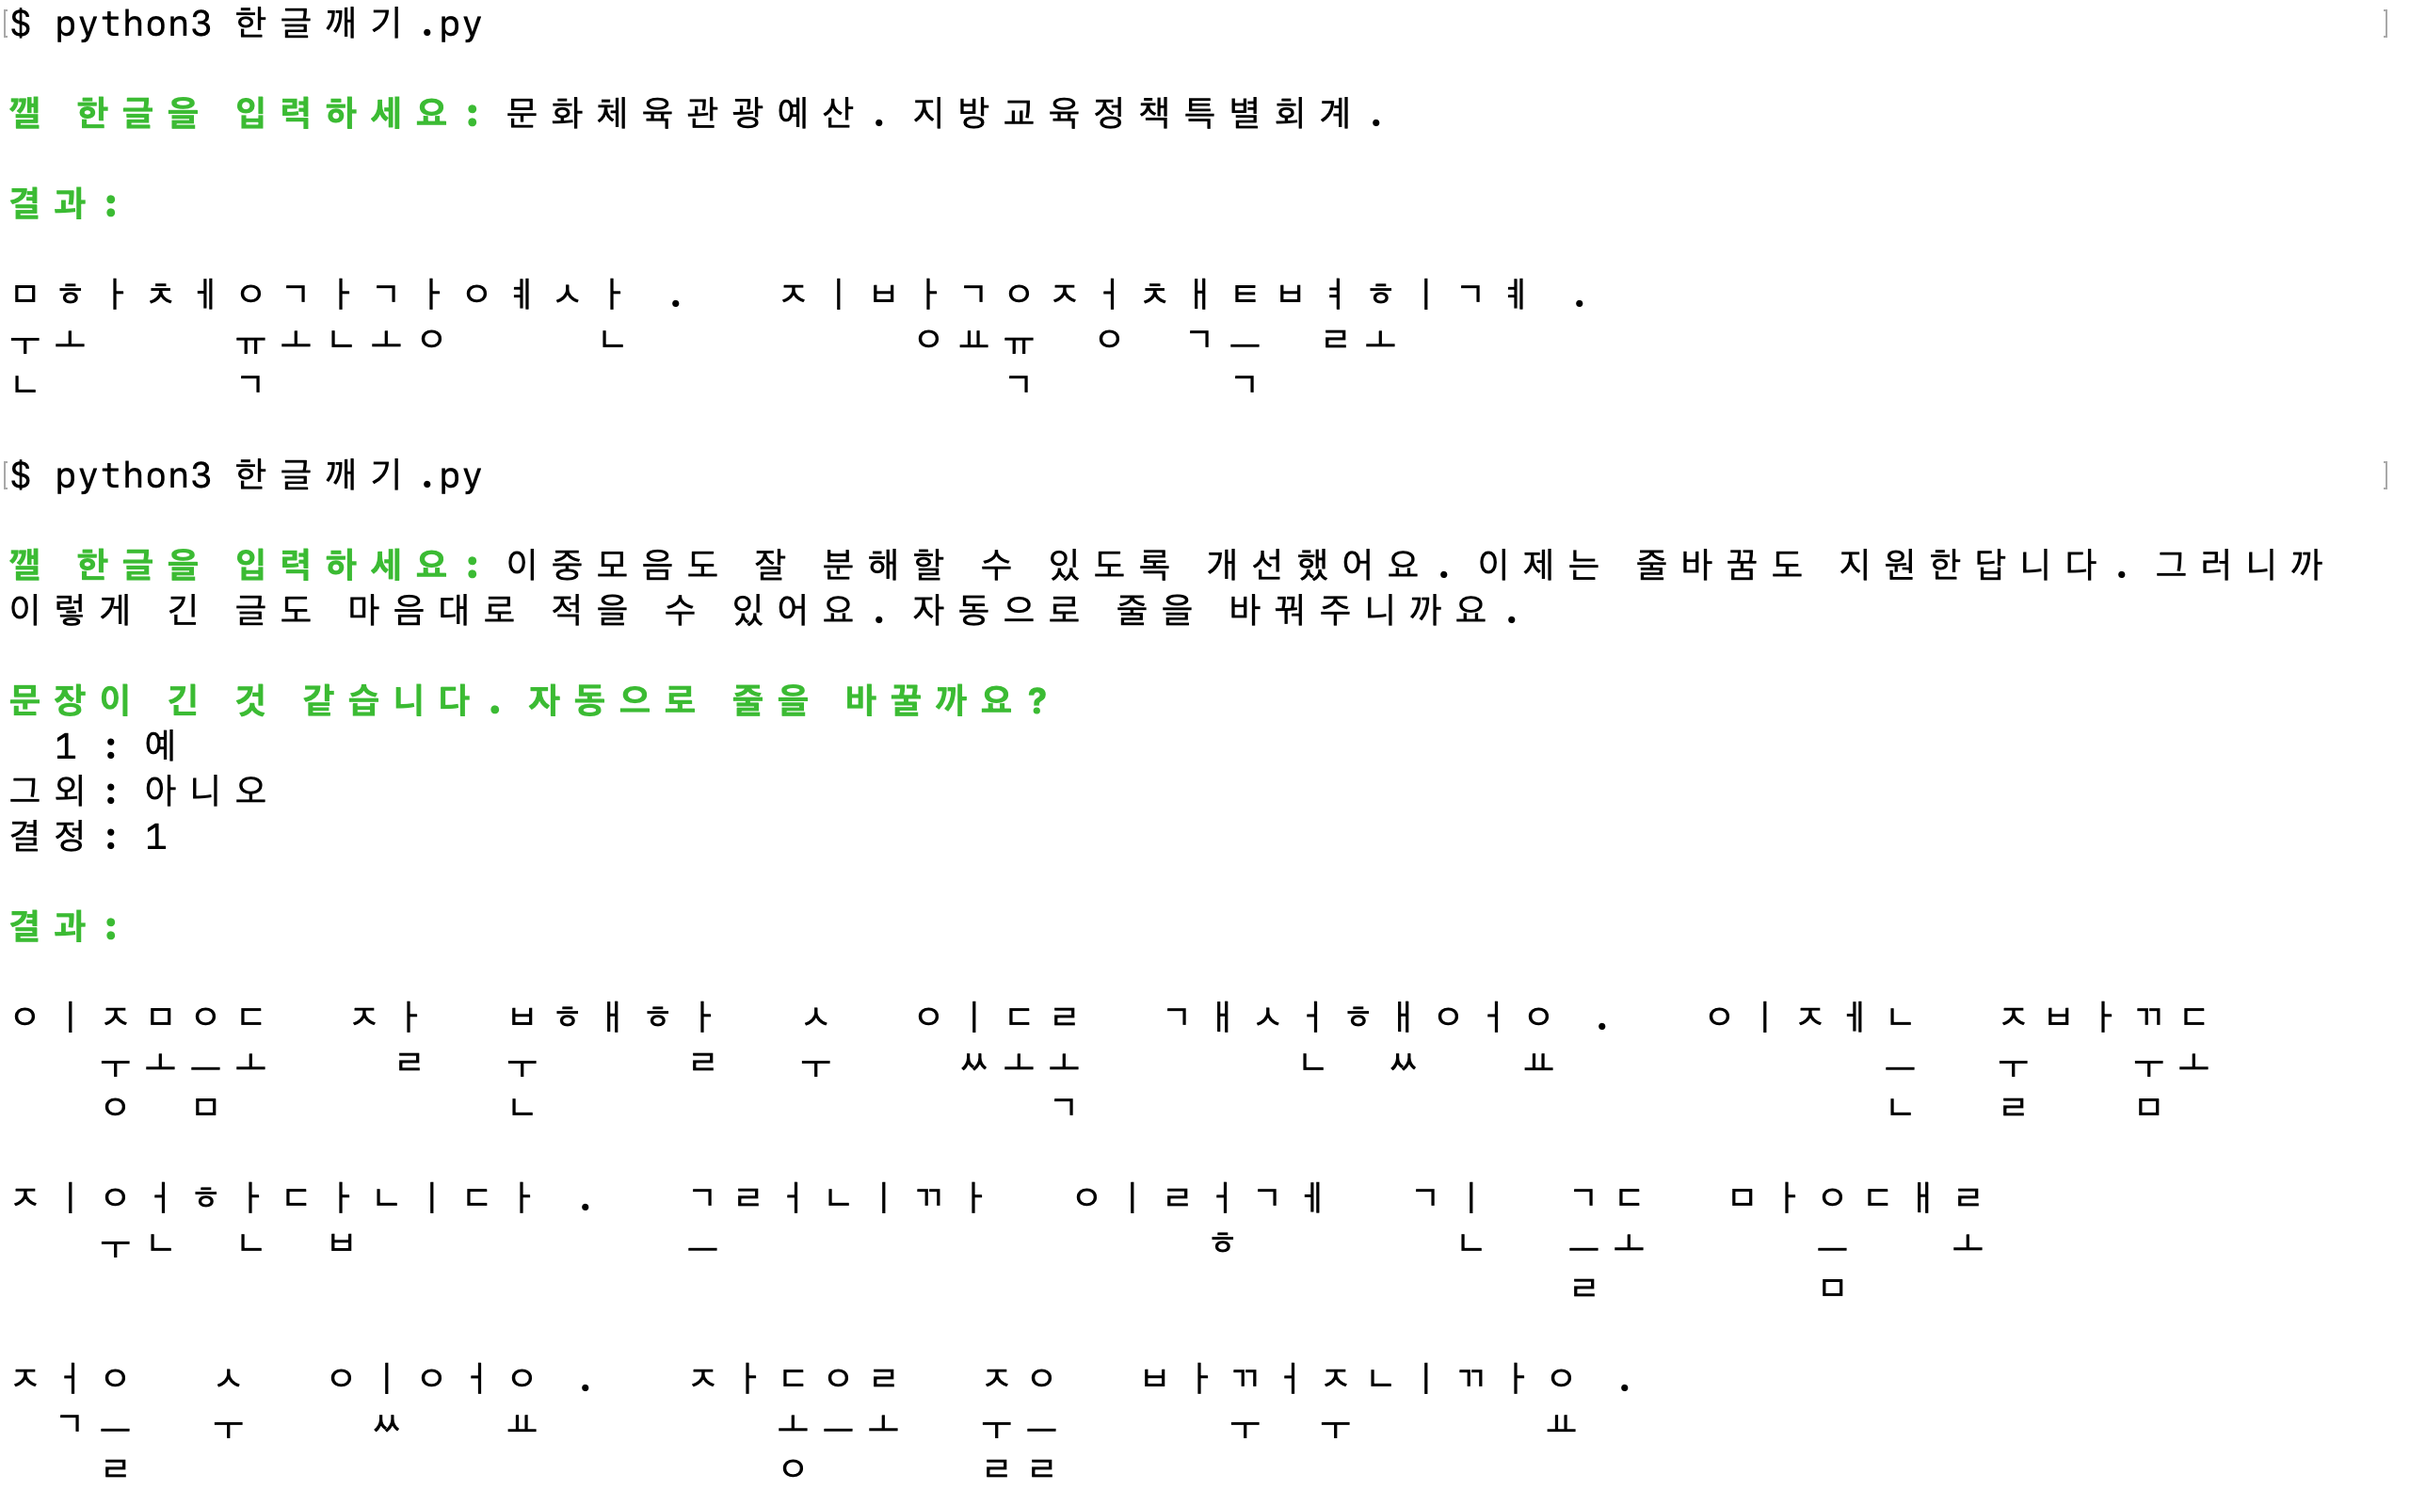
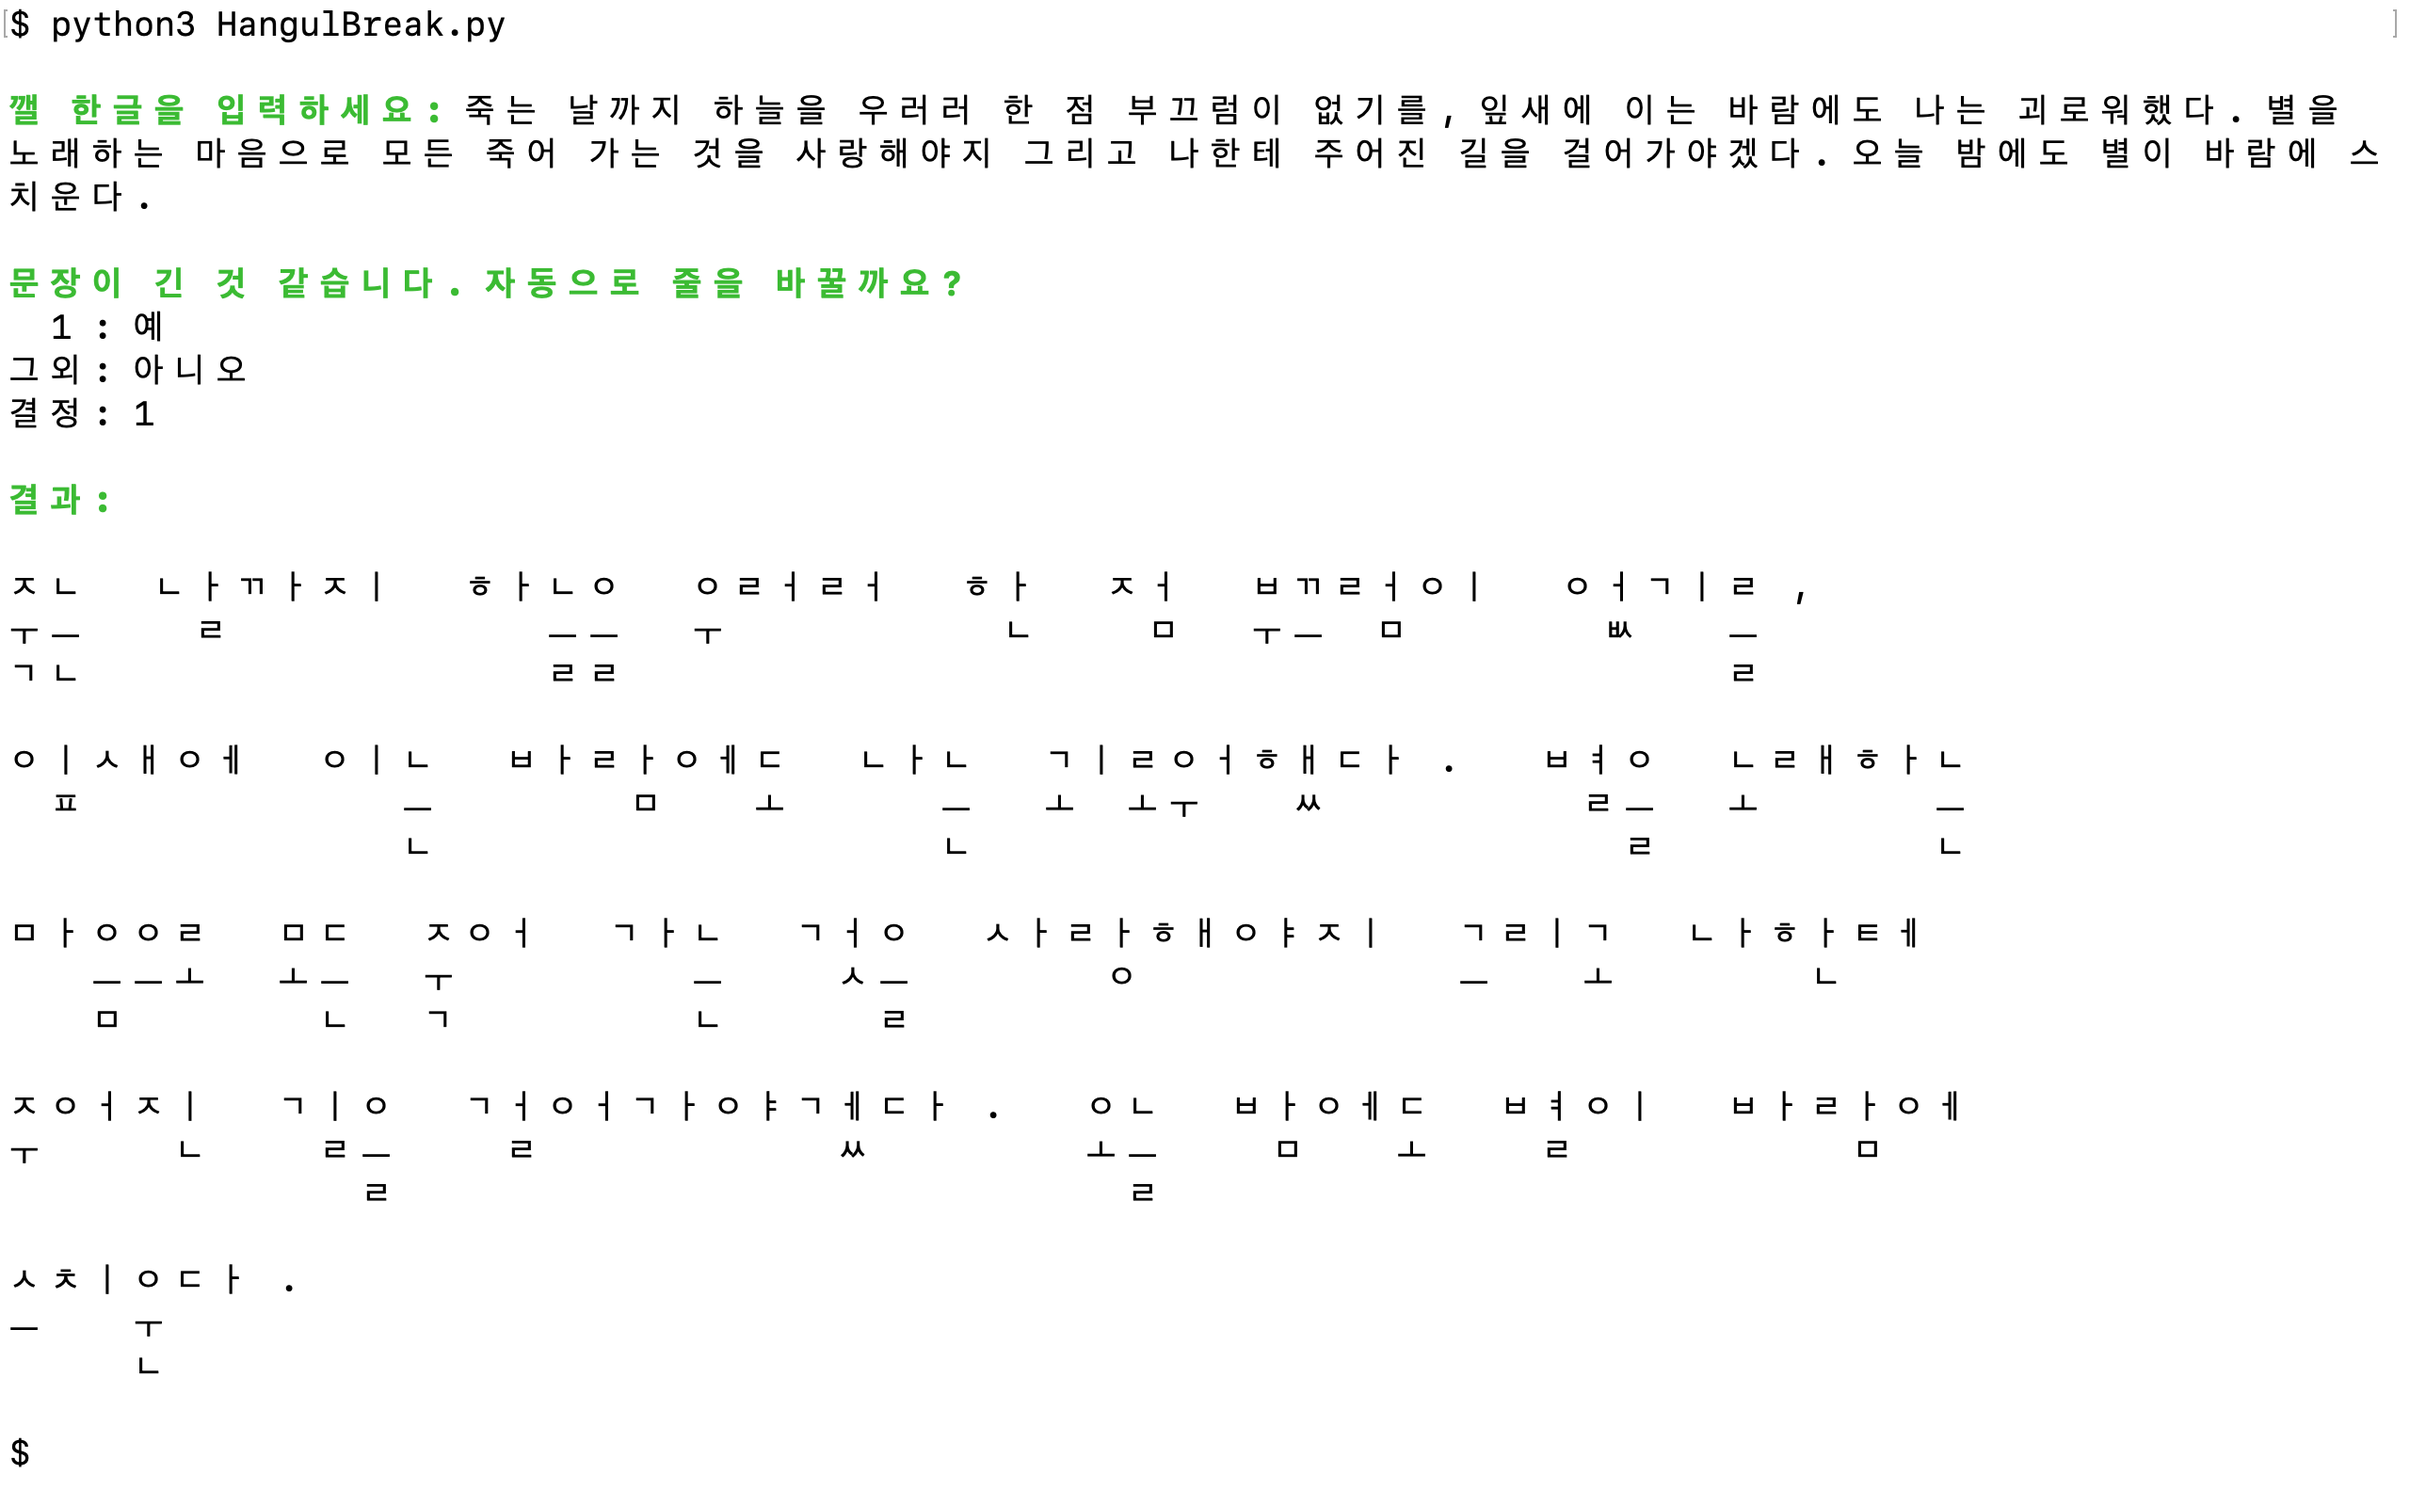
🐍 Fixed ASCII Char Indentation Issue, Repackaged Python Scripts, Updated Demo Images Accordingly

diff --git a/Python/HangulDecomposeModule.py b/Python/HangulDecomposeModule.py
@@ -1,4 +1,6 @@
-class hangulbreaker():
+# Developed by Sunghyun Cho on Feb 25, 2019.
+
+class HangulDecomposer():
     초성들 = ["ㄱ", "ㄲ", "ㄴ", "ㄷ", "ㄸ", "ㄹ", "ㅁ", "ㅂ", "ㅃ",
             "ㅅ", "ㅆ", "ㅇ", "ㅈ", "ㅉ", "ㅊ", "ㅋ", "ㅌ", "ㅍ", "ㅎ"]
     중성들 = ["ㅏ", "ㅐ", "ㅑ", "ㅒ", "ㅓ", "ㅔ", "ㅕ", "ㅖ", "ㅗ", "ㅘ",
@@ -7,7 +9,6 @@ class hangulbreaker():
             "ㄿ", "ㅀ", "ㅁ", "ㅂ", "ㅄ", "ㅅ", "ㅆ", "ㅇ", "ㅈ", "ㅊ", "ㅋ", "ㅌ", "ㅍ", "ㅎ"]
 
     def __init__(self, 입력):
-
         self.원본 = 입력
 
         if ord(입력) < 128:

diff --git a/Python/HangulBreak.py b/Python/HangulBreak.py
@@ -1,12 +1,15 @@
 # Developed by Sunghyun Cho on Feb 25, 2019.
 
-from decomposer import hangulbreaker as 한글분해
+from HangulDecomposeModule import HangulDecomposer as 한글분해
 
 글자인쇄최대길이 = 40
 
 def 차원분석(파자):
     길이 = 1 # 초성의 길이
     높이 = 1 # 초성의 높이
+
+    if len(파자.초성) == 3 and 파자.중성 == "   " and 파자.중성 == "   ":
+        return [1, 3]
 
     if 파자.가로형중성을_가진다면():
         길이 = 길이 + 1

diff --git a/Python/ENYGDecideModule.py b/Python/ENYGDecideModule.py
@@ -1,13 +1,12 @@
-# ENYGma (Eun-Neun-Yi-Ga)
 # Developed by Sunghyun Cho on March 9th, 2019.
 
-from decomposer import hangulbreaker as hb
+from HangulDecomposeModule import HangulDecomposer as hb
 
 def pronounceInKorean(word):
 	# modify accordingly for your use
 	return word
 
-def enygma(string, highlight):
+def ENYGDecider(string, highlight):
 	wordList = string.split()
 	newString = ""
 	for word in wordList:

diff --git a/README.md b/README.md
@@ -1,12 +1,15 @@
 [![Codacy Badge](https://api.codacy.com/project/badge/Grade/b3504707702a491bb4a40ad495a55cd6)](https://app.codacy.com/app/anaclumos/hangulbreak?utm_source=github.com&utm_medium=referral&utm_content=anaclumos/hangulbreak&utm_campaign=Badge_Grade_Dashboard) [![HitCount](http://hits.dwyl.io/anaclumos/hangulbreak.svg)](http://hits.dwyl.io/anaclumos/hangulbreak)
 
-# [한글깨기.py](한글깨기.py) & [Enyg.py (은는이가.py)](Enyg.py)
+# 한글깨기.py & 은는이가.py
 
-## Enyg.py
+* [Python 3](Python)
+* Javascript (To be added!)
+
+## 은는이가.py
 
 ![demo3](assets/demo3.png)
 
 ## 한글깨기.py
 
-![demo.png](assets/demo.png)
+![demo1.png](assets/demo1.png)
 ![demo2.png](assets/demo2.png)
